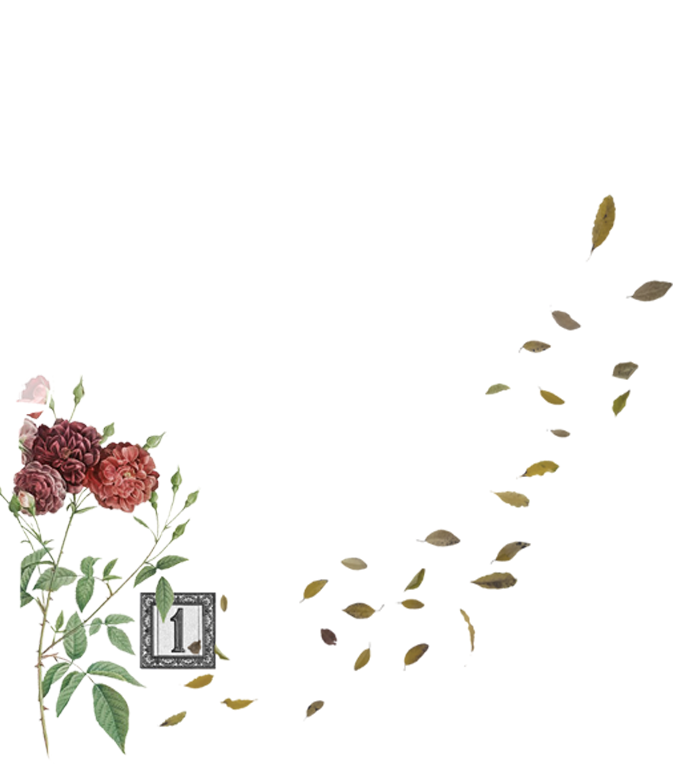
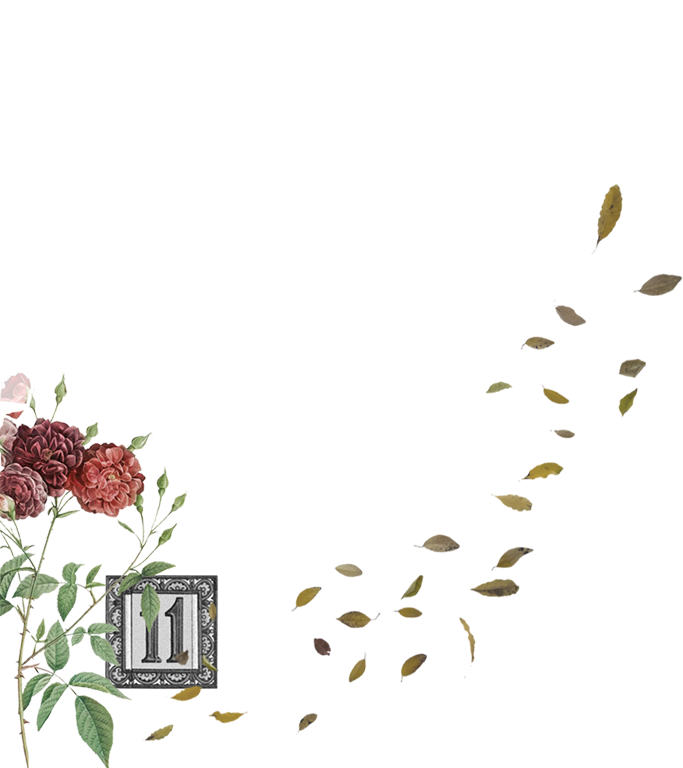
numbers to index items images

diff --git a/src/components/layout/snippets/body/index/IndexItem.js b/src/components/layout/snippets/body/index/IndexItem.js
@@ -25,8 +25,8 @@ const Quote = styled(Link)`
   position: absolute;
   left:${(props) => (props.texthalign === "left" ? "50px" : "")};
   right:${(props) => (props.texthalign === "right" ? "50px" : "")};
-  top:${(props) => (props.textvalign === "top" ? "150px" : "")};
-  bottom:${(props) => (props.textvalign === "bottom" ? "150px" : "")};
+  top:${(props) => (props.textvalign === "top" ? "50px" : "")};
+  bottom:${(props) => (props.textvalign === "bottom" ? "50px" : "")};
   font-family: ${(props) => props.theme.fonts.display};
 
   font-size: 2em;

diff --git a/src/components/layout/snippets/body/index/IndexImage.js b/src/components/layout/snippets/body/index/IndexImage.js
@@ -4,18 +4,16 @@ import styled from 'styled-components'
 
 const IndexImageContainer = styled.div`
     position: absolute;
-    height:120%;
-    width:120%;
-    top:-10%;
-    left:-10%;
+    height:105%;
+    width:100%;
+    top:-2.5%;
     z-index: 9999;
 `;
 
 const Image = styled.img`
     position:absolute;
-    height:100%;
-    left:${props => props.align === "left" ? "-1%" : "0"};
-    right:${props => props.align === "right" ? "-1%" : "0"};
+    width:100%;
+    bottom:-5%
 `;
 
 
